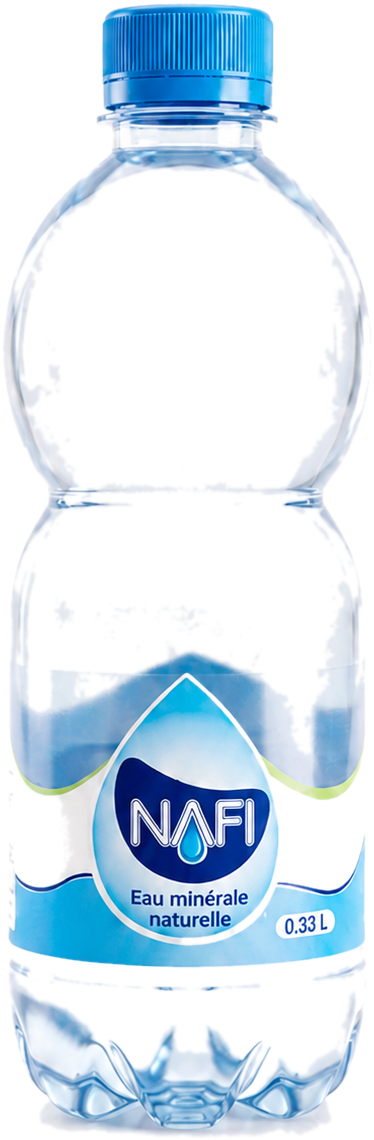
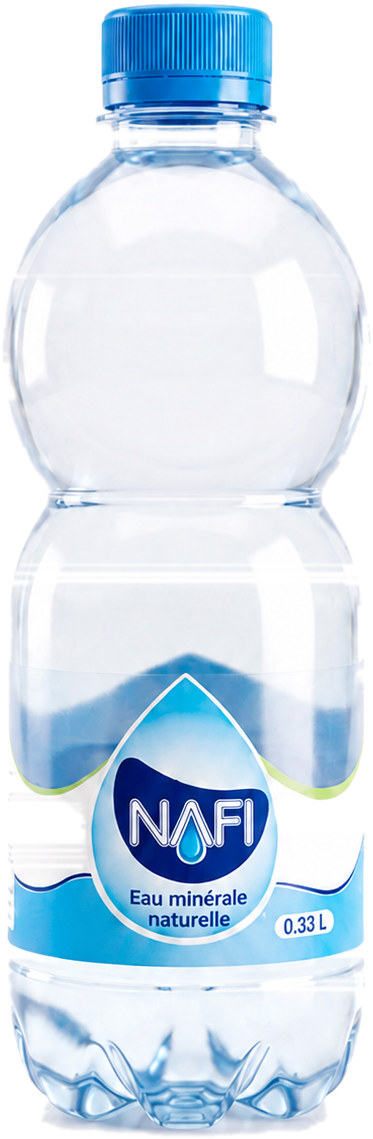
Bouteilles détourées avec intérieur plein (eau blanche) au lieu de transparent

diff --git a/scripts/remove_bg.py b/scripts/remove_bg.py
@@ -1,37 +1,57 @@
 #!/usr/bin/env python3
-"""Retire le fond blanc des photos de bouteilles -> PNG transparent.
-Flood-fill C (PIL) depuis les coins : ne touche pas l'interieur de la bouteille."""
+"""Detoure les bouteilles en GARDANT l'interieur plein (eau blanche).
+Principe : on detecte les bords de la bouteille (tout ce qui differe du
+fond blanc), puis on remplit la silhouette ligne par ligne. L'interieur
+conserve donc ses couleurs d'origine (eau claire/blanche)."""
 import sys
-from PIL import Image, ImageDraw, ImageFilter
+from PIL import Image, ImageChops, ImageFilter
 
-SENT = (255, 0, 255)  # couleur sentinelle (improbable dans la photo)
-
-def remove_bg(src, dst, thresh=55, feather=1.2):
+def cutout(src, dst, thresh=24, feather=1.2):
     img = Image.open(src).convert("RGB")
     w, h = img.size
-    seeds = [(0, 0), (w-1, 0), (0, h-1), (w-1, h-1),
-             (w//2, 0), (w//2, h-1), (0, h//2), (w-1, h//2)]
-    for s in seeds:
-        ImageDraw.floodfill(img, s, SENT, thresh=thresh)
 
+    # Couleur de fond = moyenne des 4 coins
     px = img.load()
-    alpha = Image.new("L", (w, h), 255)
+    cs = [px[0, 0], px[w-1, 0], px[0, h-1], px[w-1, h-1]]
+    bg = tuple(sum(c[i] for c in cs) // 4 for i in range(3))
+
+    # Difference par rapport au fond -> canal max
+    diff = ImageChops.difference(img, Image.new("RGB", (w, h), bg))
+    r, g, b = diff.split()
+    dmax = ImageChops.lighter(ImageChops.lighter(r, g), b)
+    mask = dmax.point(lambda v: 255 if v > thresh else 0)
+    mp = mask.load()
+
+    # Remplissage de la silhouette ligne par ligne (1 segment par rangee)
+    alpha = Image.new("L", (w, h), 0)
     ap = alpha.load()
     for y in range(h):
+        left = -1
         for x in range(w):
-            if px[x, y] == SENT:
-                ap[x, y] = 0
+            if mp[x, y]:
+                left = x
+                break
+        if left == -1:
+            continue
+        right = left
+        for x in range(w-1, left-1, -1):
+            if mp[x, y]:
+                right = x
+                break
+        for x in range(left, right+1):
+            ap[x, y] = 255
 
+    # Lissage des bords
     alpha = alpha.filter(ImageFilter.GaussianBlur(feather))
-    orig = Image.open(src).convert("RGBA")
-    orig.putalpha(alpha)
-    bbox = orig.getbbox()
+    out = img.convert("RGBA")
+    out.putalpha(alpha)
+    bbox = out.getbbox()
     if bbox:
-        orig = orig.crop(bbox)
-    orig.save(dst)
-    print(f"{dst}  {orig.size[0]}x{orig.size[1]}")
+        out = out.crop(bbox)
+    out.save(dst)
+    print(f"{dst}  {out.size[0]}x{out.size[1]}  (fond={bg})")
 
 if __name__ == "__main__":
-    args = sys.argv[1:]
-    for i in range(0, len(args), 2):
-        remove_bg(args[i], args[i+1])
+    a = sys.argv[1:]
+    for i in range(0, len(a), 2):
+        cutout(a[i], a[i+1])
